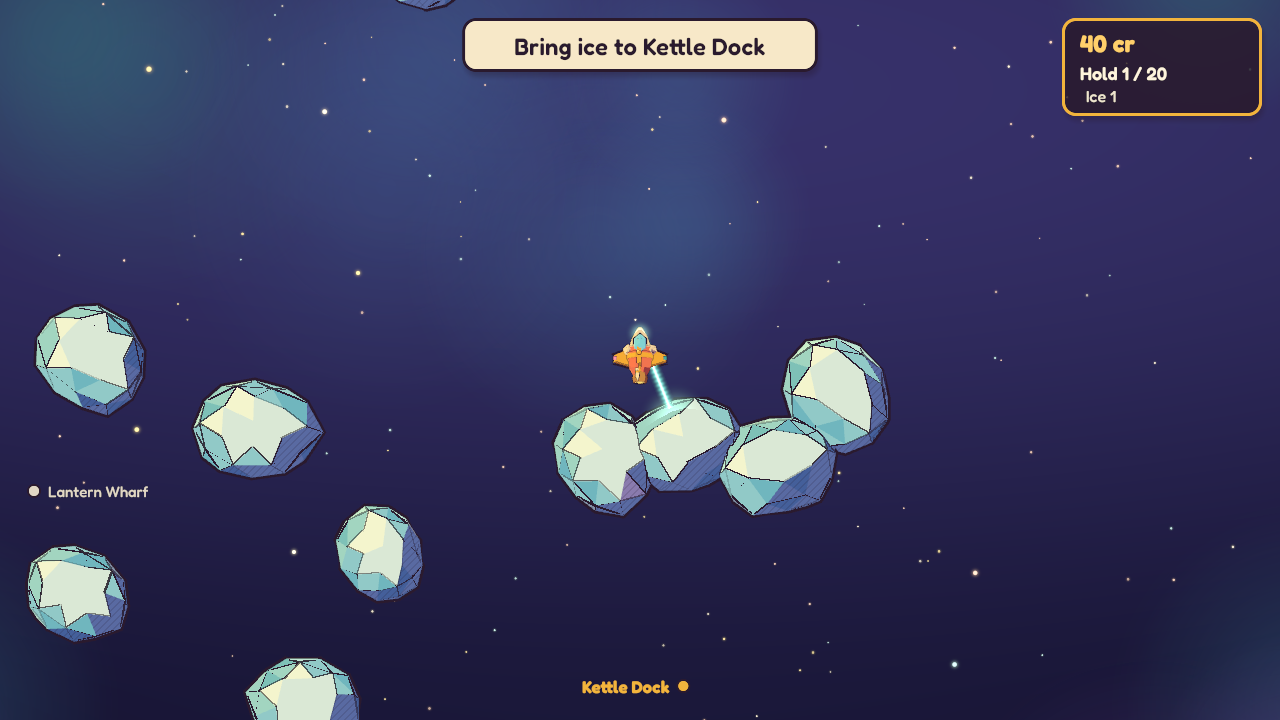
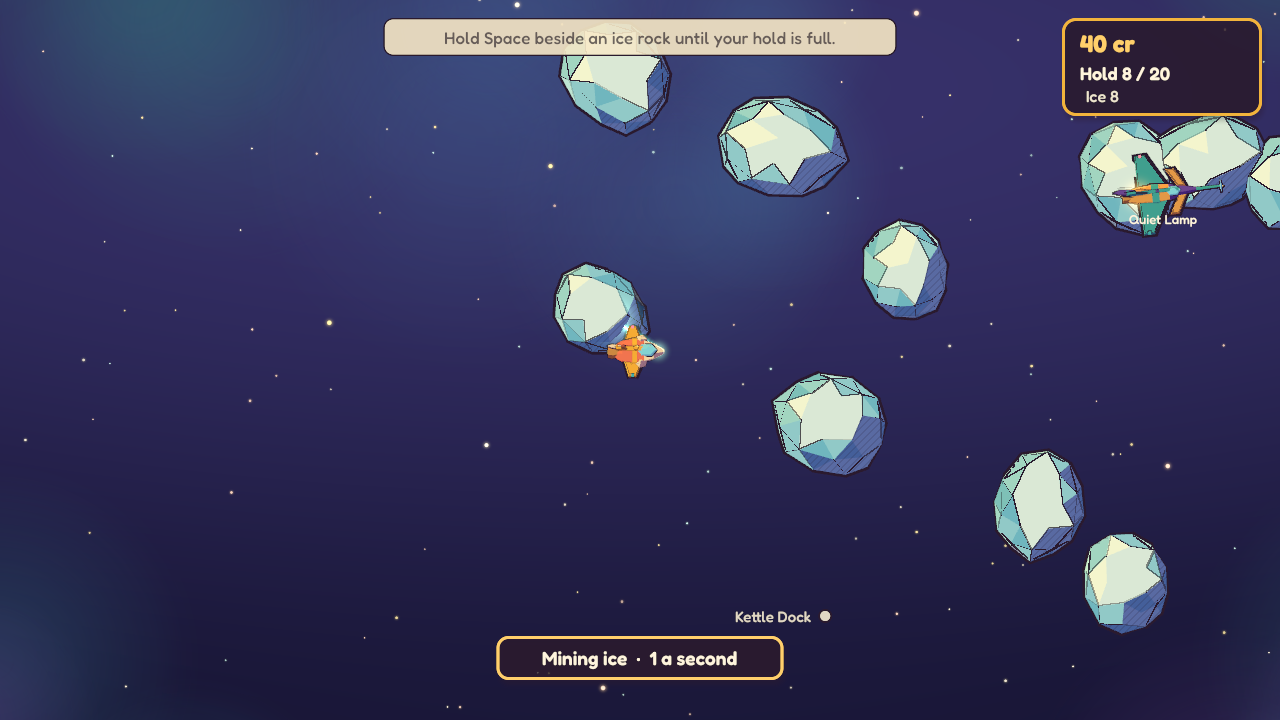
The gold goal marker is an opt-in aid, off by default
The marker pointed at the goal's station from anywhere, across regions, in gold: a
waypoint, against "discovery over hand-holding". Default play now keeps only the plain
markers for off-screen stations in your own region. `play --goal-marker` turns the
gold one back on as an accessibility aid (UiState::goal_marker). A test checks the
default frame has none and the option brings it back.

The README's first loop no longer leans on the marker and documents the option; the
dock, mining and Kettle screenshots are retaken without it (and with the current dock
screen and intro lines).

diff --git a/slices/01-lantern-reach/crates/app/src/ui/mod.rs b/slices/01-lantern-reach/crates/app/src/ui/mod.rs
@@ -90,6 +90,9 @@ pub struct UiState {
     pub confirm: Option<HullId>,
     /// The first services row the dock screen shows when they don't all fit.
     pub services_first: usize,
+    /// Mark the goal's station at the screen edge, in gold, wherever it is: an
+    /// accessibility aid, off by default (`play --goal-marker`). Discovery comes first.
+    pub goal_marker: bool,
 }
 
 /// Compact developer diagnostics; no sim state changes and no model calls.
@@ -475,13 +478,24 @@ pub fn station_labels(o: &mut Overlay, world: &WorldState, camera: &Camera, view
     }
 }
 
-/// Small markers at the screen edge for stations out of view in the region you're in,
-/// and for the goal's station wherever it is.
-pub fn edge_markers(o: &mut Overlay, world: &WorldState, camera: &Camera, viewport: G2) {
+/// Small markers at the screen edge for stations out of view in the region you're in.
+/// With `goal_marker` (off by default) the goal's station is marked too, in gold,
+/// wherever it is.
+pub fn edge_markers(
+    o: &mut Overlay,
+    world: &WorldState,
+    camera: &Camera,
+    viewport: G2,
+    goal_marker: bool,
+) {
     let Some(ship) = world.player.ship.as_ref().and_then(|s| world.ships.get(s)) else {
         return;
     };
-    let goal = hooks::goal_place(world);
+    let goal = if goal_marker {
+        hooks::goal_place(world)
+    } else {
+        None
+    };
     let inset = 34.0;
     for s in world.stations.values() {
         let is_goal = goal.as_ref() == Some(&s.id);

diff --git a/slices/01-lantern-reach/crates/app/tests/play.rs b/slices/01-lantern-reach/crates/app/tests/play.rs
@@ -645,6 +645,41 @@ fn the_dock_screen_keeps_clear_of_the_goal_and_the_hold() {
     }
 }
 
+/// The station names marked in gold at the screen edge (the goal marker).
+fn goal_markers(s: &Session, ui_state: &UiState) -> Vec<String> {
+    let view = galaxy_app::view::View::new();
+    let at = flagship(s).position;
+    let rig = galaxy_app::view::CameraRig::new(render::glam::Vec2::new(at.x, at.y));
+    let viewport = render::glam::Vec2::new(1280.0, 720.0);
+    let (scene, _) = galaxy_app::frame::compose(&view, s, &rig, ui_state, 1.0, 0.0, viewport);
+    let stations: Vec<&str> = s
+        .world()
+        .stations
+        .values()
+        .map(|st| st.name.as_str())
+        .collect();
+    scene
+        .overlay
+        .texts
+        .iter()
+        .filter(|t| t.color == render::palette::MUSTARD && stations.contains(&t.text.as_str()))
+        .map(|t| t.text.clone())
+        .collect()
+}
+
+/// Discovery over hand-holding: no waypoint to the goal's station unless the player
+/// asks for it (`play --goal-marker`).
+#[test]
+fn the_goal_marker_is_off_unless_asked_for() {
+    let s = settled_session();
+    assert!(goal_markers(&s, &UiState::default()).is_empty());
+    let asked = UiState {
+        goal_marker: true,
+        ..UiState::default()
+    };
+    assert_eq!(goal_markers(&s, &asked), vec!["Kettle Dock".to_string()]);
+}
+
 #[test]
 fn a_long_market_scrolls_and_keeps_the_selection_in_view() {
     const EXTRA: [WareId; 10] = [

diff --git a/slices/01-lantern-reach/crates/app/src/main.rs b/slices/01-lantern-reach/crates/app/src/main.rs
@@ -88,6 +88,10 @@ enum Cmd {
         /// Reload packs when their files change (development).
         #[arg(long)]
         hot_reload: bool,
+        /// Accessibility: mark the current goal's station at the screen edge, in gold
+        /// (off by default; the game leaves finding the way to you).
+        #[arg(long)]
+        goal_marker: bool,
     },
     /// Earn a journey checkpoint through real player actions.
     Beat {
@@ -578,6 +582,7 @@ fn main() -> ExitCode {
             quit_after_frames,
             no_gm,
             hot_reload,
+            goal_marker,
         } => galaxy_app::play::play(galaxy_app::play::PlayArgs {
             beat,
             save,
@@ -587,6 +592,7 @@ fn main() -> ExitCode {
             no_gm,
             hot_reload,
             quit_after_frames,
+            goal_marker,
         })
         .map_err(fail),
         Cmd::Beat {

diff --git a/slices/01-lantern-reach/crates/app/src/play.rs b/slices/01-lantern-reach/crates/app/src/play.rs
@@ -45,6 +45,8 @@ pub struct PlayArgs {
     pub hot_reload: bool,
     /// Close after this many frames (a smoke test of the window without a player).
     pub quit_after_frames: Option<u32>,
+    /// Mark the goal's station at the screen edge (an accessibility aid, off by default).
+    pub goal_marker: bool,
 }
 
 /// The winit key for each game key.
@@ -215,7 +217,10 @@ pub fn play(args: PlayArgs) -> Result<Value, (u8, String)> {
         saver: Saver::start(save),
         running: None,
         keys: Keys::default(),
-        ui: UiState::default(),
+        ui: UiState {
+            goal_marker: args.goal_marker,
+            ..UiState::default()
+        },
         rig: CameraRig::new(center),
         step: FixedStep::default(),
         last: Instant::now(),

diff --git a/slices/01-lantern-reach/crates/app/src/frame.rs b/slices/01-lantern-reach/crates/app/src/frame.rs
@@ -68,7 +68,13 @@ pub fn compose(
         let mut s = view.world_scene(world, &poses, rig, time, viewport);
         let camera = rig.camera();
         ui::station_labels(&mut s.overlay, world, &camera, viewport);
-        ui::edge_markers(&mut s.overlay, world, &camera, viewport);
+        ui::edge_markers(
+            &mut s.overlay,
+            world,
+            &camera,
+            viewport,
+            ui_state.goal_marker,
+        );
         ui::hint(&mut panels, world, canvas);
         let docked = session.flagship().and_then(|f| f.docked_at.clone());
         let answer = session

diff --git a/slices/01-lantern-reach/README.md b/slices/01-lantern-reach/README.md
@@ -83,6 +83,11 @@ providers); every displayed word is authored or a fact value. Without a key the 
 says so once.
 `--hot-reload` reloads packs as you edit them (development).
 
+Finding the way is part of the game: there are no waypoint arrows. Stations in your
+region that are off screen show as small markers at the edge. `--goal-marker` (off by
+default) is an accessibility aid that also marks the current goal's station, in gold,
+wherever it is.
+
 The window won't shrink below 960x540. Below 1280x720 the panels scale down to fit
 rather than clipping, and a market longer than the screen scrolls with the selection.
 
@@ -100,8 +105,8 @@ time you play. Without an audio device the game just runs silent. The rules the
 sounds follow are in [crates/audio/README.md](crates/audio/README.md).
 
 A first loop: fly off the dock with W A S D, fly right into the ice field, hold Space beside a rock
-until your hold fills, fly down and right to Kettle Dock (the marker at the screen edge
-points the way), drift into its ring, press Space, and sell.
+until your hold fills, fly down and right to Kettle Dock, drift into its ring, press
+Space, and sell.
 
 ![The dock screen at Lantern Wharf](docs/screenshots/dock.png)
 
@@ -256,7 +261,7 @@ Or build once and call `target/debug/galaxy` directly.
 | `gm status (--save PATH \| --live)` | Applied, staged and quarantined packs, with change IDs. |
 | `gm rollback CHANGE (--save PATH \| --live) [--packs DIR]` | In-world rollback of `cause.N` or `stage.N`: inverts the pack revision's writes, retires it, switches its pack off in the save (no revision of it runs again, gm-examples' copy included, until a new one is applied), and its speaker says why. |
 | `api dump [--name NAME]` | The contract's JSON Schemas. |
-| `play [--save PATH] [--new] [--seed N] [--packs DIR] [--no-gm] [--hot-reload]` | The game in a window (see Play). Prints the save, tick and packs when it closes. |
+| `play [--save PATH] [--new] [--seed N] [--packs DIR] [--no-gm] [--hot-reload] [--goal-marker]` | The game in a window (see Play). Prints the save, tick and packs when it closes. |
 | `shot --live [SAVE] --out P.png` | What the running game's window shows right now. |
 | `shot --save PATH --out P.png [--map] [--size WxH] [--zoom H] [--keys SCRIPT] [--write]` | Renders a save headless with the same scene and panels as play (needs a GPU adapter, no window). `--keys` flies it first with scripted input, e.g. `d,wait*3,d*200,space*240` (fly off the dock, fly right, mine); `:pause`, `:map`, `:next`, `:trade`, `:tradeall`, `:buy:upgrade.mining_lens`, `:ask`, `:reply:N` (or `:reply:choice.side_coop`), `:click:X:Y`, `:qclick:X:Y` and `:mapclick:REGION` work too (`crates/app/src/script.rs`). `--write` keeps the scripted run. |
 | `mind try [--packs DIR]` | Live TypeSafe Jev calls on OpenRouter, with latency and cost: a trader choice and a dock-talk pick among authored lines, plus a gpt-oss line if `talk.free_phrasing` is on. Needs `OPENROUTER_API_KEY` in the environment (exit 4 without it). |
